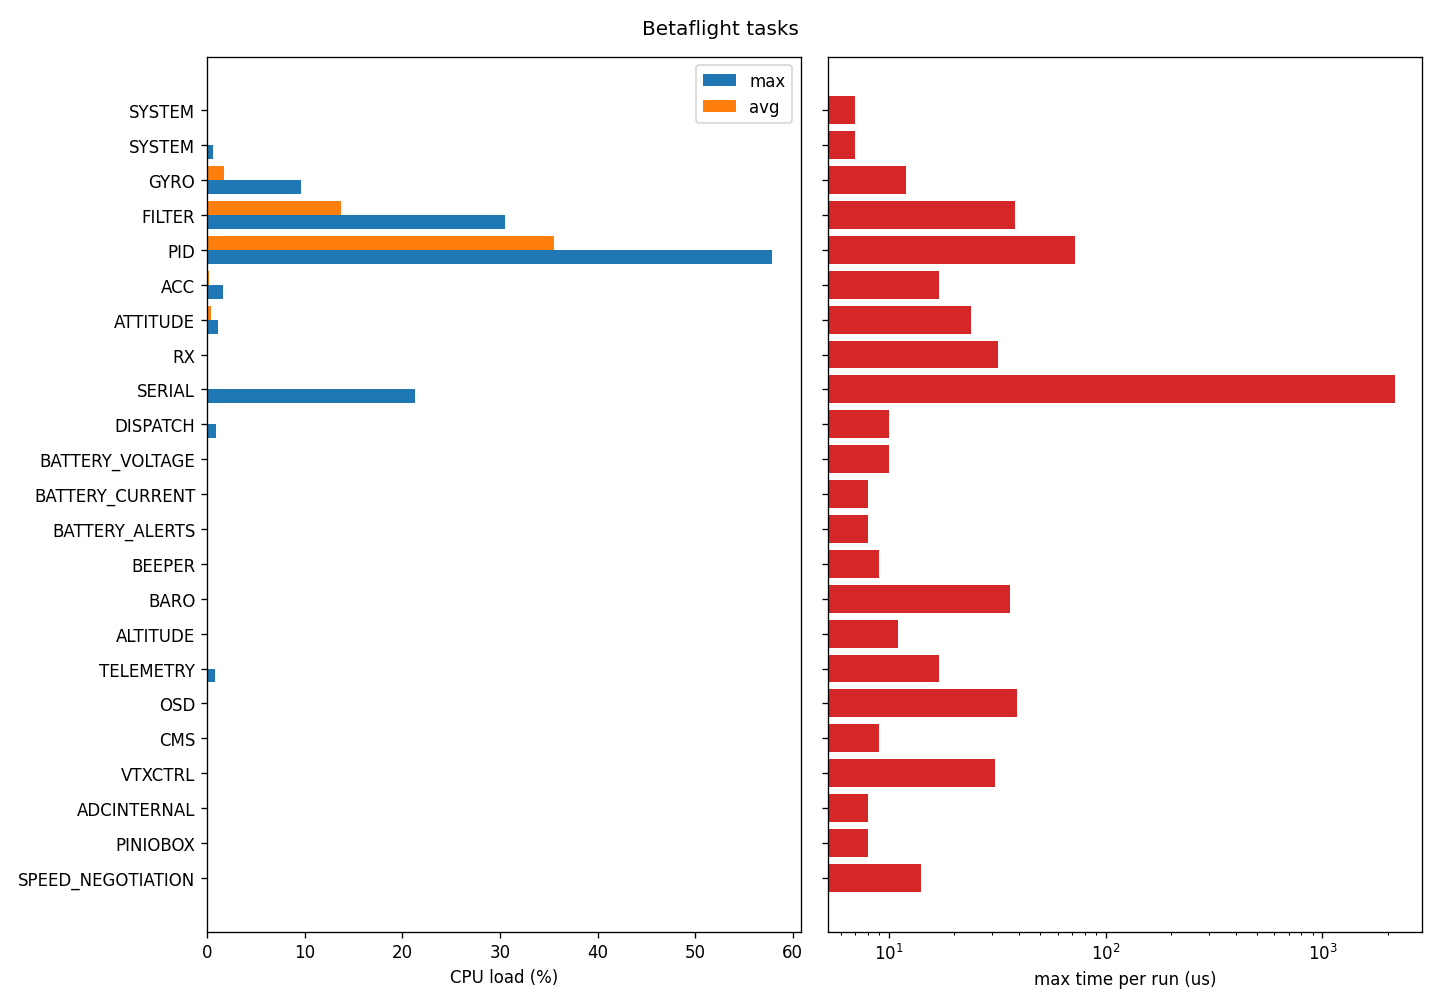
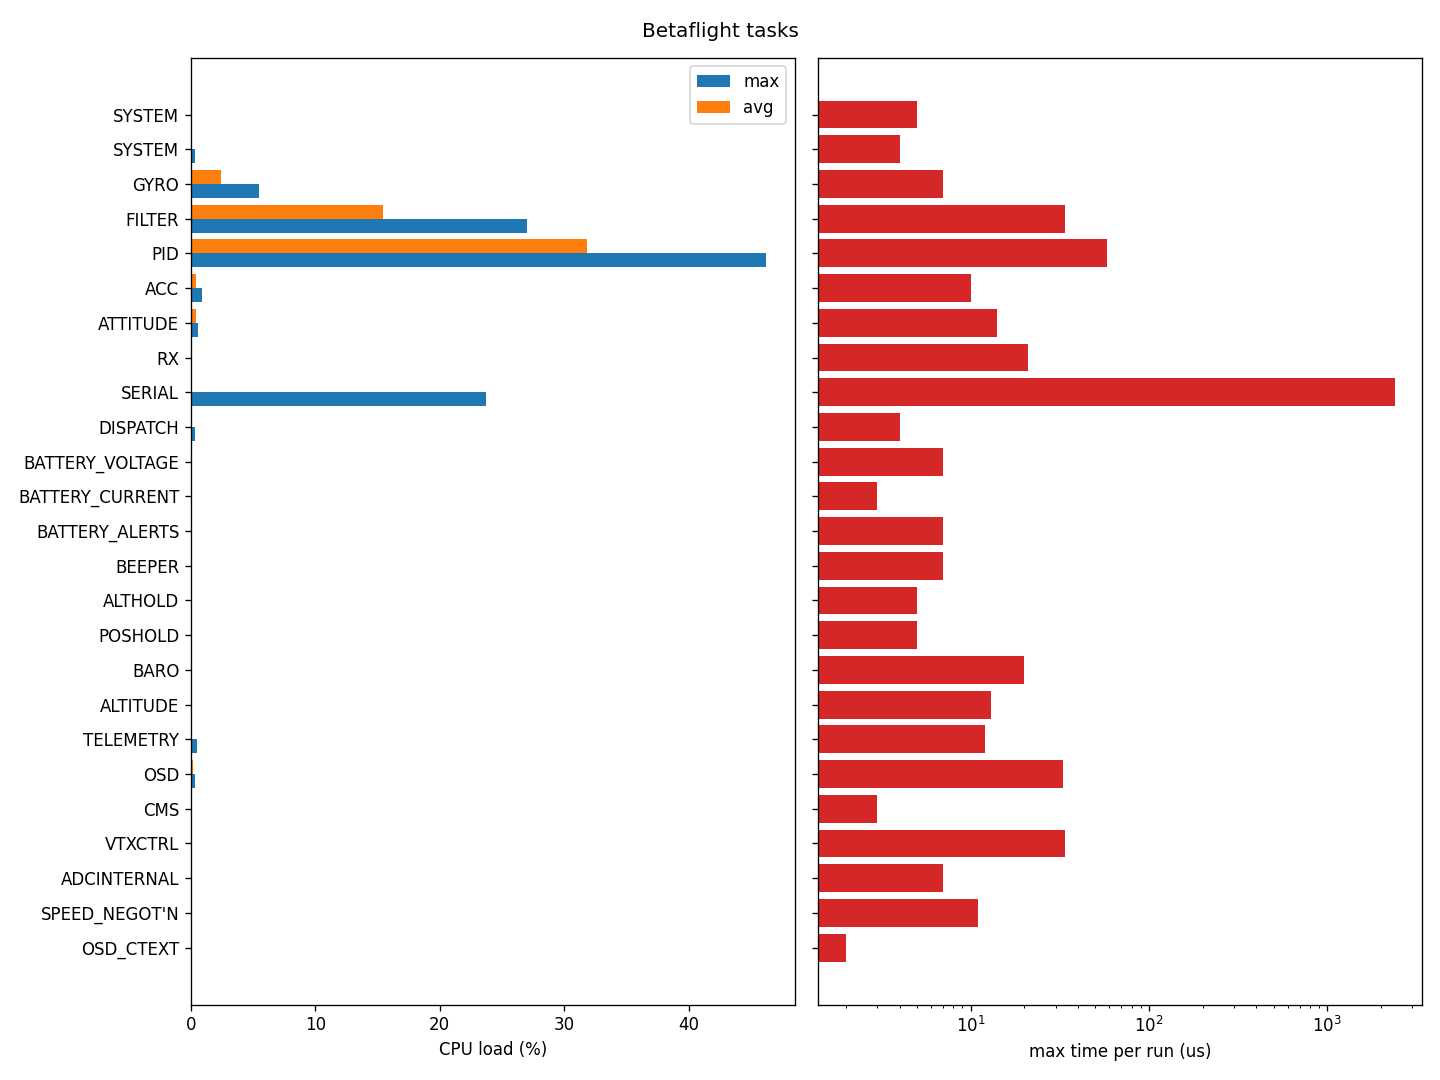
Real-time profile: Betaflight 2026.6.2 tasks on the new FC (#237)
## Description

The last piece of the real-time profile: Betaflight `tasks` captured on
2026.6.2, on the new FC (#189).

- `fc_cli.py dump` (read-only, FC on USB, props off, no battery) →
`drone/config/betaflight/2026.6.2/cli_read_2026-11-25_112409.txt` +
`diff_all_2026-11-25_112415.txt`
- `rt_profile.py plot --tasks …` → `rt-profile/betaflight_tasks.png`
regenerated
- Architecture Document §4: the 4.5.1 bullet is replaced with the
2026.6.2 numbers: PID 8 kHz, PID max load 46.2 % (avg 31.8 %), FILTER
27.0 % (15.4 %), total 50.6 %, `late` = 0 on GYRO/FILTER/PID
- `test_rt_profile.py`: the committed-capture test now also parses the
2026.6.2 log

## Related Issue

Closes #146

## Requirements

REQ-SW-005

## Testing

- [ ] Build passes
- [x] Unit tests pass (`drone/tests/tools/test_rt_profile.py`, 7 passed)
- [ ] Integration tests pass
- [ ] Simulation tested
- [x] Hardware tested (FC on USB, props off)
- [ ] Flight tested

## Notes

The new `diff all` vs the `diff_all_2026-10-30.txt` baseline differs
beyond the expected `mcu_id` and `acc_calibration`: `serial UART1 1 …`,
`aux 3 11 2 1700 2100`, `poshold_position_source`, `rangefinder_hardware
= MTF02P`, `opticalflow_hardware = MT`, `altitude_source =
RANGEFINDER_PREFER`, `ap_max_angle = 15`. For #189 to confirm these are
intended (optical-flow / rangefinder work), not a restore mismatch.

🤖 Generated with [Claude Code](https://claude.com/claude-code)

---------

Changed region(s): [[0.0, 0.0308, 1.0, 0.9851]]

diff --git a/drone/tests/tools/test_rt_profile.py b/drone/tests/tools/test_rt_profile.py
@@ -1,6 +1,8 @@
 import pathlib
 import sys
 
+import pytest
+
 sys.path.insert(
     0, str(pathlib.Path(__file__).resolve().parents[3] / "drone" / "tools" / "bench")
 )
@@ -31,8 +33,15 @@ def test_parse_tasks_reads_the_rows_by_header():
     }
 
 
-def test_parse_tasks_reads_a_committed_capture():
-    log = REPO / "drone/config/betaflight/4.5.1/cli_read_2026-10-16_172704.txt"
+@pytest.mark.parametrize(
+    "log",
+    [
+        "drone/config/betaflight/4.5.1/cli_read_2026-10-16_172704.txt",
+        "drone/config/betaflight/2026.6.2/cli_read_2026-11-25_112409.txt",
+    ],
+)
+def test_parse_tasks_reads_a_committed_capture(log):
+    log = REPO / log
     names = [r["name"] for r in rt_profile.parse_tasks(log.read_text())]
     assert {"GYRO", "PID", "SERIAL"} <= set(names)
 

diff --git a/drone/tools/bench/fc_cli.py b/drone/tools/bench/fc_cli.py
@@ -104,7 +104,7 @@ class Cli:
         out = out[1:] if out and out[0].strip() == line.strip() else out
         while out and out[-1].strip() in ("", "#"):
             out.pop()
-        return "\n".join(out).strip("\n") + "\n"
+        return "\n".join(o.rstrip() for o in out).strip("\n") + "\n"
 
     def save(self):
         self.ser.write(b"save\r\n")  # the FC reboots and the port disappears

diff --git a/docs/PraticalPlan/03 Architecture/Architecture Document.md b/docs/PraticalPlan/03 Architecture/Architecture Document.md
@@ -212,7 +212,7 @@ Plotted by `drone/tools/bench/rt_profile.py` from two logs, never by hand. Comma
 
 ![[betaflight_tasks.png]]
 
-- **Betaflight 4.5.1, 2026-10-16 capture (before the 2026.6.2 upgrade):** PID loop 8 kHz, PID max load 57.9 % (avg 35.5 %), FILTER 30.5 % (13.7 %), total 51.5 % excluding SERIAL. SERIAL's 2161 µs max is the CLI session itself. To redo on 2026.6.2 once the USB connector is repaired (#189).
+- **Betaflight 2026.6.2, 2026-11-25 capture (new FC after #189, USB, props off, no battery; log `drone/config/betaflight/2026.6.2/cli_read_2026-11-25_112409.txt`):** PID loop 8 kHz (7968 Hz), PID max load 46.2 % (avg 31.8 %), FILTER 27.0 % (15.4 %), GYRO 5.5 % (2.4 %), total 50.6 %. No task runs late in the gyro/filter/PID chain (`late` = 0). SERIAL's 2381 µs max is the CLI session itself. The 4.5.1 capture of 2026-10-16 (PID 57.9 %, total 51.5 % excluding SERIAL) stays in `drone/config/betaflight/4.5.1/` for comparison.
 ![[esp_loop_period.png]]
 
 - **ESP loop jitter, drone, 2026-11-17 capture (`sd-gw 0.2.0T`, 704 s UDP control stream, props off, 40 MHz flash clock; raw log `results/esp_loop_2026-11-17.csv`, not committed):** 18 993 758 loops, median 31 µs, p99 88 µs, p99.9 1.47 ms, p99.99 1.98 ms, max 6.17 ms. 55 526 loops (0.3 %) took 1 ms or more; one took 5 ms or more; none reached the 20 ms RC period (`MSP_SET_RAW_RC` at 50 Hz). The worst stall is under a third of that period, so `loop()` keeps up with the control stream. The 0.4–0.6 ms and 1–2 ms bumps are loops that handle a packet or an MSP exchange (assumption, not measured per path). Percentiles are bucket lower edges (buckets are at most 6.25 % wide): median 31 µs means 31–32 µs, p99 88 µs means 88–92 µs. The max is exact. The time spent sending the 1 Hz report is left out of the histogram on purpose; only this build has that cost. The capture was taken at 40 MHz flash; don't compare it with an 80 MHz capture (the HIL spare ESP runs at 80 MHz since #212).
